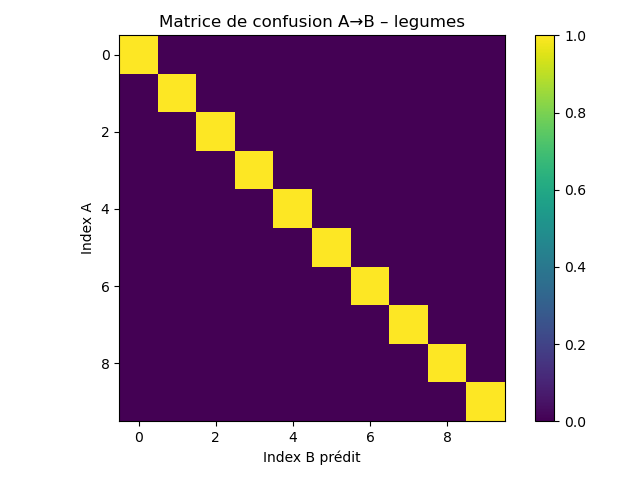
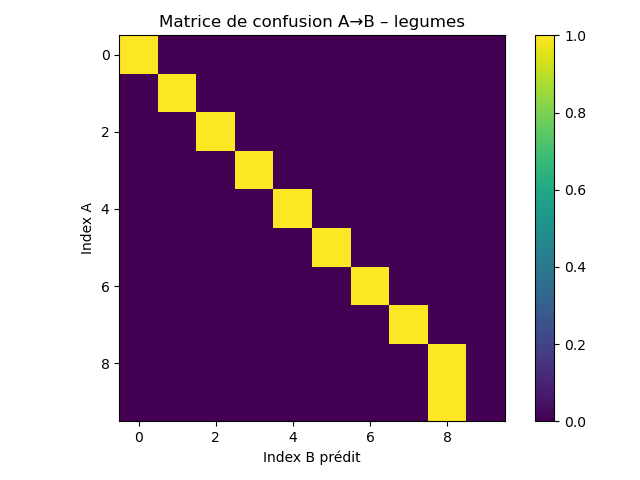
orb

Changed region(s): [[0.6562, 0.7812, 0.8125, 0.875]]

diff --git a/src/orb_localization.py b/src/orb_localization.py
@@ -15,37 +15,36 @@ def load_images_from_sequence(folder, prefix):
             images.append((f, img))
     return images
 
-def compute_descriptors(images, orb):
+def compute_descriptors(images):
+    orb = cv2.ORB_create()
     descriptors = []
     for name, img in images:
         kp, des = orb.detectAndCompute(img, None)
         descriptors.append((name, kp, des))
     return descriptors
 
-def match_images(descriptorsA, descriptorsB, bf):
+def match_images(descriptorsA, descriptorsB):
+    bf = cv2.BFMatcher(cv2.NORM_HAMMING, crossCheck=True)
     matches = []
     total_time = 0
 
     for i, (nameA, kpA, desA) in enumerate(descriptorsA):
         best_match_idx = -1
-        best_match_score = float('inf')
+        best_score = -1
 
         start = time.time()
         for j, (nameB, kpB, desB) in enumerate(descriptorsB):
             if desA is None or desB is None:
                 continue
+            good = bf.match(desA, desB)
+            score = len(good)
 
-            m = bf.knnMatch(desA, desB, k=2)
-            good = [m1 for m1, m2 in m if m1.distance < 0.75 * m2.distance]
-            score = -len(good)
-
-            if score < best_match_score:
-                best_match_score = score
+            if score > best_score:
+                best_score = score
                 best_match_idx = j
 
         end = time.time()
         total_time += (end - start)
-
         matches.append((i, best_match_idx))
 
     avg_time = total_time / len(descriptorsA)
@@ -56,65 +55,81 @@ def compute_error(matches):
     errors = [abs(i - j) for i, j in matches if j != -1]
     return np.mean(errors), errors
 
+def draw_matches(imgA, kpA, imgB, kpB, good_matches, out_path):
+    match_img = cv2.drawMatches(imgA, kpA, imgB, kpB, good_matches, None, flags=cv2.DrawMatchesFlags_NOT_DRAW_SINGLE_POINTS)
+    cv2.imwrite(out_path, match_img)
+
+def analyze_keypoints(imagesA, imagesB, seq_name):
+    orb = cv2.ORB_create()
+    bf = cv2.BFMatcher(cv2.NORM_HAMMING, crossCheck=True)
+    stats = []
+
+    for (nameA, imgA), (nameB, imgB) in zip(imagesA, imagesB):
+        kpA, desA = orb.detectAndCompute(imgA, None)
+        kpB, desB = orb.detectAndCompute(imgB, None)
+
+        if desA is None or desB is None:
+            continue
+
+        matches = bf.match(desA, desB)
+        stats.append({
+            "imgA": nameA,
+            "imgB": nameB,
+            "kpA": len(kpA),
+            "kpB": len(kpB),
+            "good_matches": len(matches)
+        })
+
+    df = pd.DataFrame(stats)
+    df.to_csv(f"results/orb/{seq_name}/orb_keypoint_stats_{seq_name}.csv", index=False)
+    print(df.head())
+
 if __name__ == "__main__":
     path = "data/"
-    sequences = ["studio", "visages", "legumes", "parc", "neige", "magasin", "brain"]
+    sequences = ["brain", "legumes", "studio", "visages", "parc", "neige", "magasin"]
+    os.makedirs("results/orb/", exist_ok=True)
 
-    orb = cv2.ORB_create(nfeatures=1000)
-    bf = cv2.BFMatcher(cv2.NORM_HAMMING, crossCheck=False)
-
+    
     for seq_name in sequences:
-        print(f"\nTraitement de la séquence : {seq_name}")
-        os.makedirs(f"results/orb/{seq_name}", exist_ok=True)
-        sys.stdout = open(f"results/orb/{seq_name}/log_{seq_name}.txt", "w")
+        log_path = f"results/orb/{seq_name}/log_{seq_name}.txt"
+        sys.stdout = open(log_path, "w")
 
+        print(f"\nTraitement de la séquence : {seq_name}")
         sessionA = load_images_from_sequence(path, f"{seq_name}A")
         sessionB = load_images_from_sequence(path, f"{seq_name}B")
 
-        descriptorsA = compute_descriptors(sessionA, orb)
-        descriptorsB = compute_descriptors(sessionB, orb)
+        descriptorsA = compute_descriptors(sessionA)
+        descriptorsB = compute_descriptors(sessionB)
 
         print("A -> B")
-        matches = match_images(descriptorsA, descriptorsB, bf)
+        matches = match_images(descriptorsA, descriptorsB)
         mean_error, all_errors = compute_error(matches)
         print(f"Erreur moyenne : {mean_error}")
         for (i, j), err in zip(matches, all_errors):
             print(f"A{i} <--> B{j} | Erreur = {err}")
 
         print("\nB -> A")
-        reverse_matches = match_images(descriptorsB, descriptorsA, bf)
+        reverse_matches = match_images(descriptorsB, descriptorsA)
         reverse_mean_error, reverse_errors = compute_error(reverse_matches)
         print(f"Erreur moyenne B->A : {reverse_mean_error}")
         for (i, j), err in zip(reverse_matches, reverse_errors):
             print(f"B{i} <--> A{j} | Erreur = {err}")
 
-        total_error = mean_error + reverse_mean_error
-        print(f"\nErreur totale (A->B + B->A) : {total_error}")
+        print(f"\nErreur totale (A->B + B->A) : {mean_error + reverse_mean_error}")
 
-        # Graphique des erreurs
-        plt.figure(figsize=(10, 4))
-        plt.plot(all_errors, label="A->B")
-        plt.plot(reverse_errors, label="B->A")
-        plt.xlabel("Index image")
-        plt.ylabel("Erreur de position")
-        plt.title("Erreur de localisation par ORB ("+seq_name+")")
-        plt.legend()
-        plt.tight_layout()
-        plt.savefig(f"results/orb/{seq_name}/erreurs_orb_{seq_name}.png")
-        plt.close()
-
-        # Histogramme
+        
+        # Histogramme des erreurs
         combined_errors = all_errors + reverse_errors
         if combined_errors:
             plt.hist(combined_errors, bins=range(0, max(combined_errors)+2), edgecolor='black')
-            plt.title(f"Histogramme des erreurs (total A→B et B→A) – {seq_name}")
+            plt.title(f"Histogramme des erreurs (A→B et B→A) – {seq_name}")
             plt.xlabel("Erreur |i - j|")
             plt.ylabel("Fréquence")
             plt.tight_layout()
             plt.savefig(f"results/orb/{seq_name}/histogramme_erreurs_{seq_name}.png")
             plt.close()
 
-        # Matrice de confusion
+        # Matrice de confusion A->B
         confusion = np.zeros((len(sessionA), len(sessionB)))
         for i, j in matches:
             if j != -1:
@@ -127,16 +142,19 @@ if __name__ == "__main__":
         plt.tight_layout()
         plt.savefig(f"results/orb/{seq_name}/confusion_matrix_{seq_name}_A_to_B.png")
         plt.close()
+        
+        # Visualisation de A3-B3
+        idx = 3
+        orb = cv2.ORB_create()
+        imgA = sessionA[idx][1]
+        imgB = sessionB[idx][1]
+        kpA, desA = orb.detectAndCompute(imgA, None)
+        kpB, desB = orb.detectAndCompute(imgB, None)
+        bf = cv2.BFMatcher(cv2.NORM_HAMMING, crossCheck=True)
+        matches_visu = bf.match(desA, desB)
+        draw_matches(imgA, kpA, imgB, kpB, matches_visu, f"results/orb/{seq_name}/matches_{seq_name}_A{idx}_B{idx}.png")
 
-        # Sauvegarde CSV
-        df = pd.DataFrame(matches, columns=["A_index", "B_index"])
-        df["erreur"] = df.apply(lambda row: abs(row["A_index"] - row["B_index"]), axis=1)
-        df.to_csv(f"results/orb/{seq_name}/orb_matches_{seq_name}_A_to_B.csv", index=False)
-
-        df2 = pd.DataFrame(reverse_matches, columns=["B_index", "A_index"])
-        df2["erreur"] = df2.apply(lambda row: abs(row["B_index"] - row["A_index"]), axis=1)
-        df2.to_csv(f"results/orb/{seq_name}/orb_matches_{seq_name}_B_to_A.csv", index=False)
+        analyze_keypoints(sessionA, sessionB, seq_name)
 
         sys.stdout.close()
         sys.stdout = sys.__stdout__
-        print(f"Résultats pour {seq_name} sauvegardés.")
